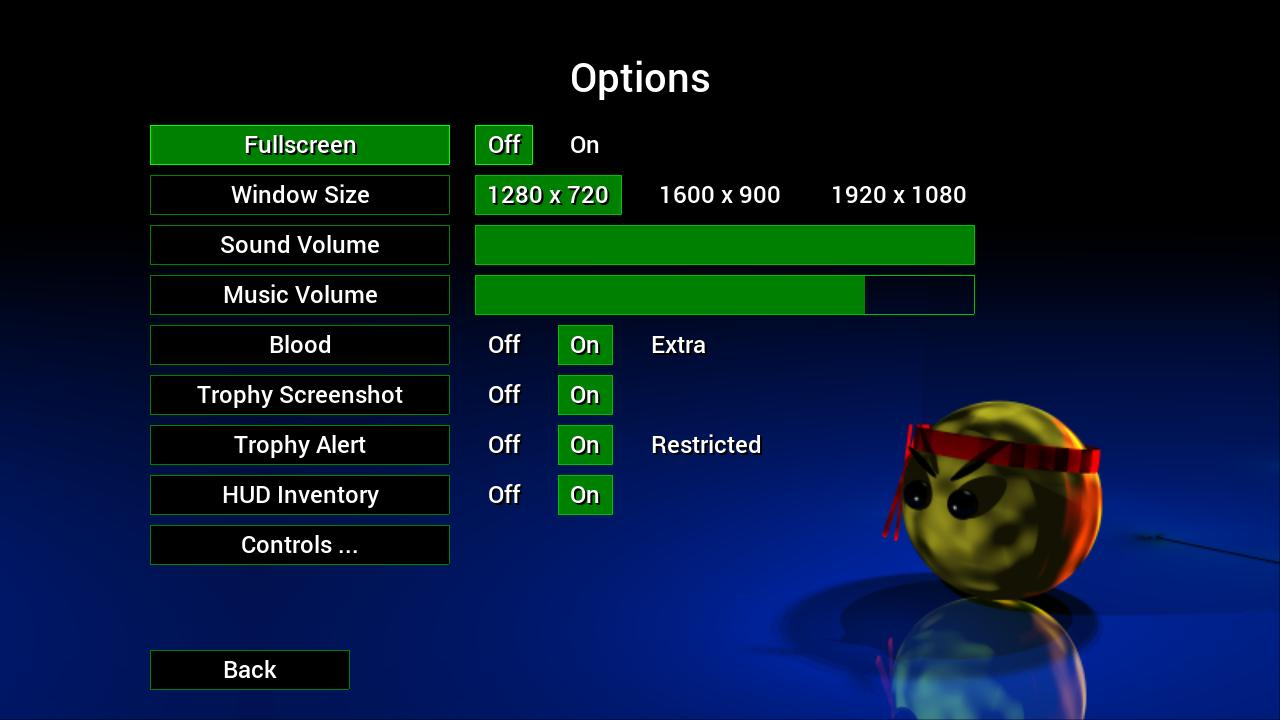
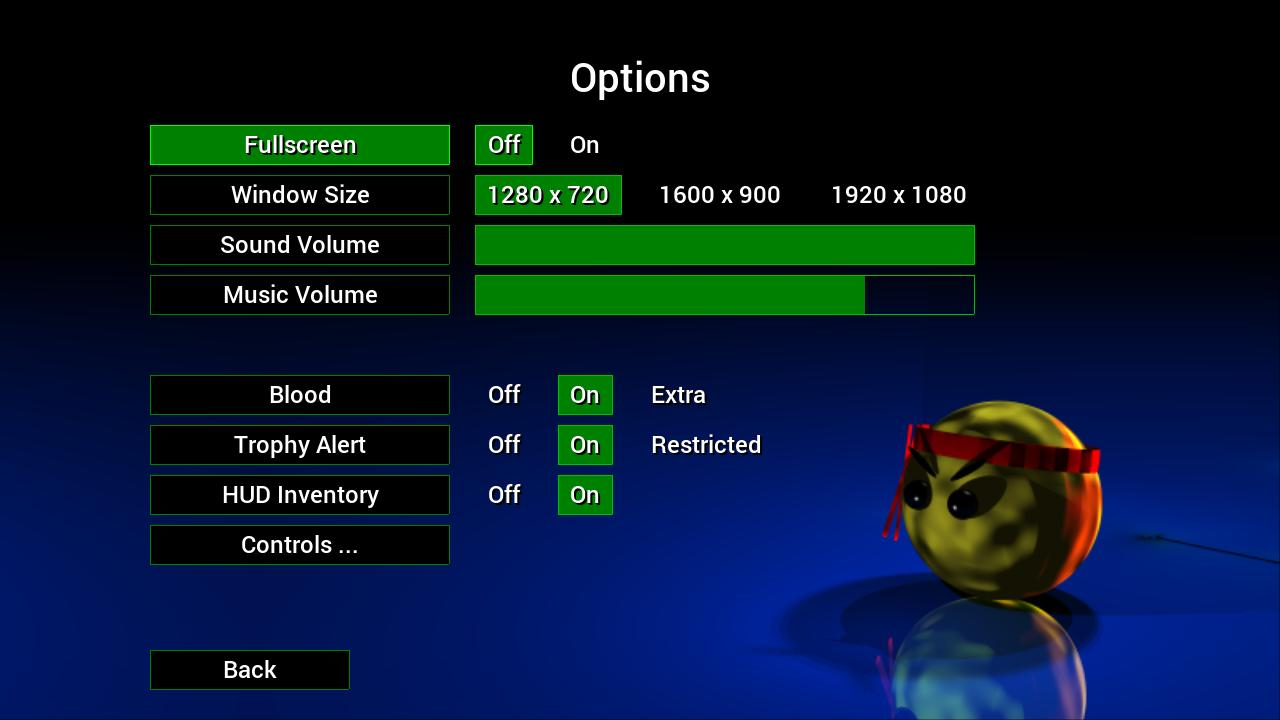
Removed references to trophy screenshot, as this feature no longer exists.

Changed region(s): [[0.0938, 0.4278, 0.4062, 0.5806], [0.4375, 0.4278, 0.5625, 0.5194], [0.5, 0.5194, 0.5625, 0.5806]]

diff --git a/manual/index.html b/manual/index.html
@@ -258,7 +258,6 @@ The options screen can be access at most times during the game. It allow you to 
 	<li><span class='highlight'>Sound Volume</span>: change the volume of the sound effect. Use the left and right controls to change the levels.</li>
 	<li><span class='highlight'>Music Volume</span>: change the volume of the music. Use the left and right controls to change the levels.</li>
 	<li><span class='highlight'>Blood</span>: whether or not to show blood. When blood is off, enemy blobs won't scream when they die and will also disappear in a puff of white when they are defeated. Blood will not splatter the ground. The Extra option will do the opposite and leave more blood around for longer (this might clutter the screen a little, so be careful with this option).</li>
-	<li><span class='highlight'>Trophy Screenshot</span>: whether or not to save a screenshot when a trophy is earned. The screenshot is saved to the same location as the save files. Be aware that this might cause the game to pause for a moment when the screenshot to saved.</li>
 	<li><span class='highlight'>Trophy Alert</span>: whether or not to show an in-game alert when a trophy is earned. Switching to to Restricted will mean that alerts are not shown during a mission. This option may be best if you find the alerts obscuring gameplay.</li>
 	<li><span class='highlight'>Hud Inventory</span>: whether to show the in-game inventory in the top right corner of the screen during a mission. Turn this off if you find it either distract or is obscuring the gameplay.</li>
 	<li><span class='highlight'>Controls</span>: go to the controls configuration screen. See below for more details.</li>
@@ -286,7 +285,7 @@ To change a control, highlight the relevant options and press Return or Space, t
 
 <h3>Misc. Game Info</h3>
 <p>
-Blob Wars : Attrition features an in-game trophy system, not unlike the achievement and trophy system found in Steam, Xbox Live, and PSN. This is entirely an offline system and exists purely for fun. Trophies are awarded for things such as completing missions, defeating a certain number of enemies, and rescuing MIAs. You can view the trophies you have earned and those that are outstanding in the hub and mission menus. When a trophy is earned, a notification will appear on the screen. If you find these distracting, you can switch them off in the options screen (or set them to be restricted, so that they do not appear during missions). A screenshot is also saved, which can also be turned off.
+Blob Wars : Attrition features an in-game trophy system, not unlike the achievement and trophy system found in Steam, Xbox Live, and PSN. This is entirely an offline system and exists purely for fun. Trophies are awarded for things such as completing missions, defeating a certain number of enemies, and rescuing MIAs. You can view the trophies you have earned and those that are outstanding in the hub and mission menus. When a trophy is earned, a notification will appear on the screen. If you find these distracting, you can switch them off in the options screen (or set them to be restricted, so that they do not appear during missions).
 </p>
 
 <h3>License</h3>

diff --git a/manual/style.css b/manual/style.css
@@ -7,5 +7,5 @@ table {border-collapse: collapse;}
 table, th, td {border: 1px solid white; padding: 8px;}
 span.highlight {color: #fb0; font-weight: bold;}
 img.screenshot {width: 800px; padding: 2px; border: 1px solid #ccc; margin-left: auto; margin-right: auto; display: block;}
-div.annotation {font-size: 12px; position: absolute; background-color: #08f; color: #fff; padding: 5px; font-weight: bold; border: 1px #fff solid; text-align: center}
+div.annotation {border-radius: 50%; font-size: 12px; position: absolute; background-color: #08f; color: #fff; padding: 5px; font-weight: bold; border: 1px #adf solid; text-align: center; width: 21px; height: 21px;}
 div.annotationContainer {position: relative; width: 800px; display: block; margin-left: auto; margin-right: auto;}
